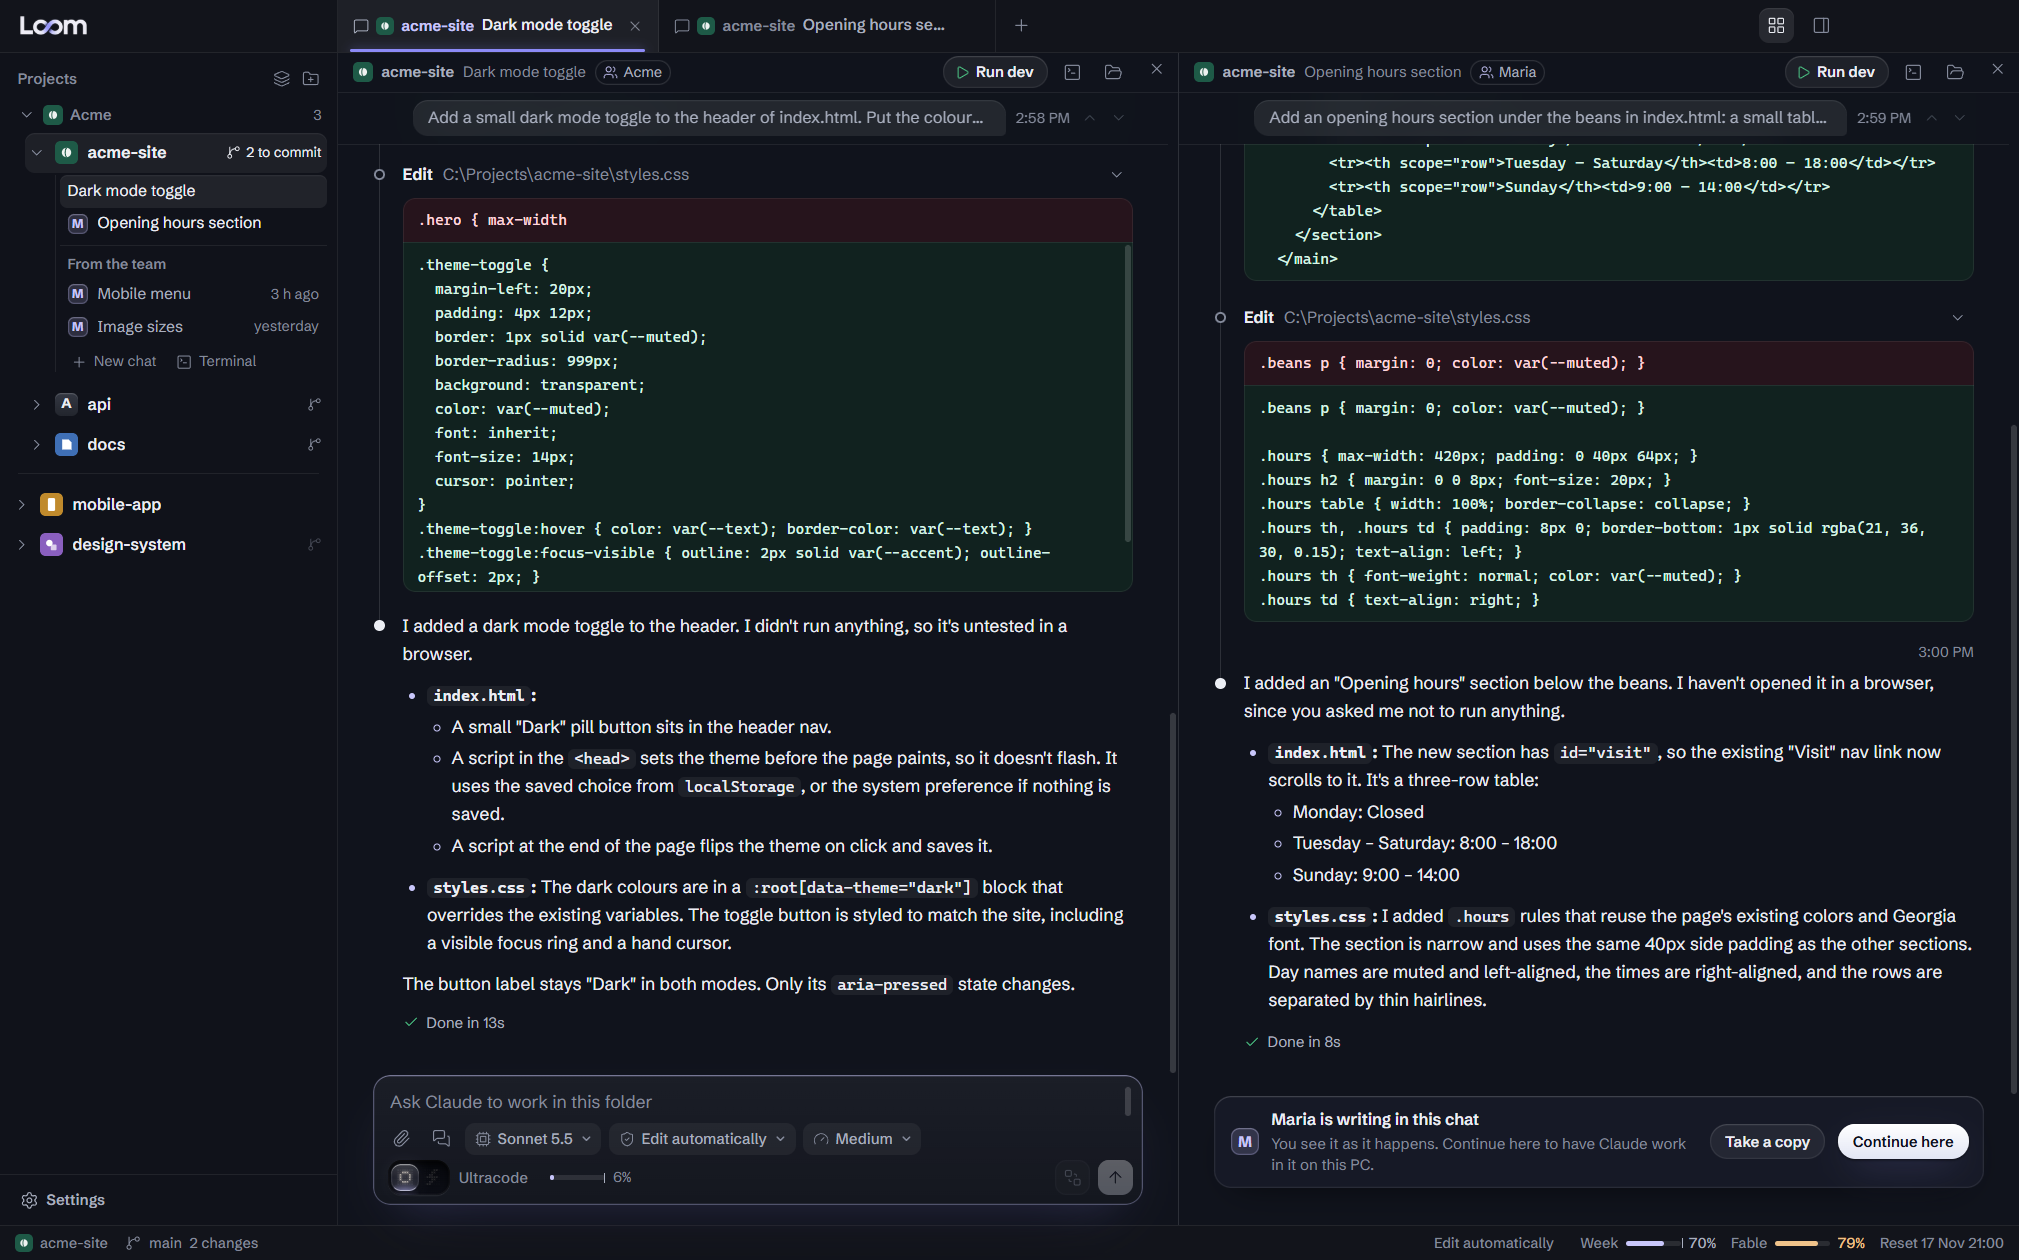
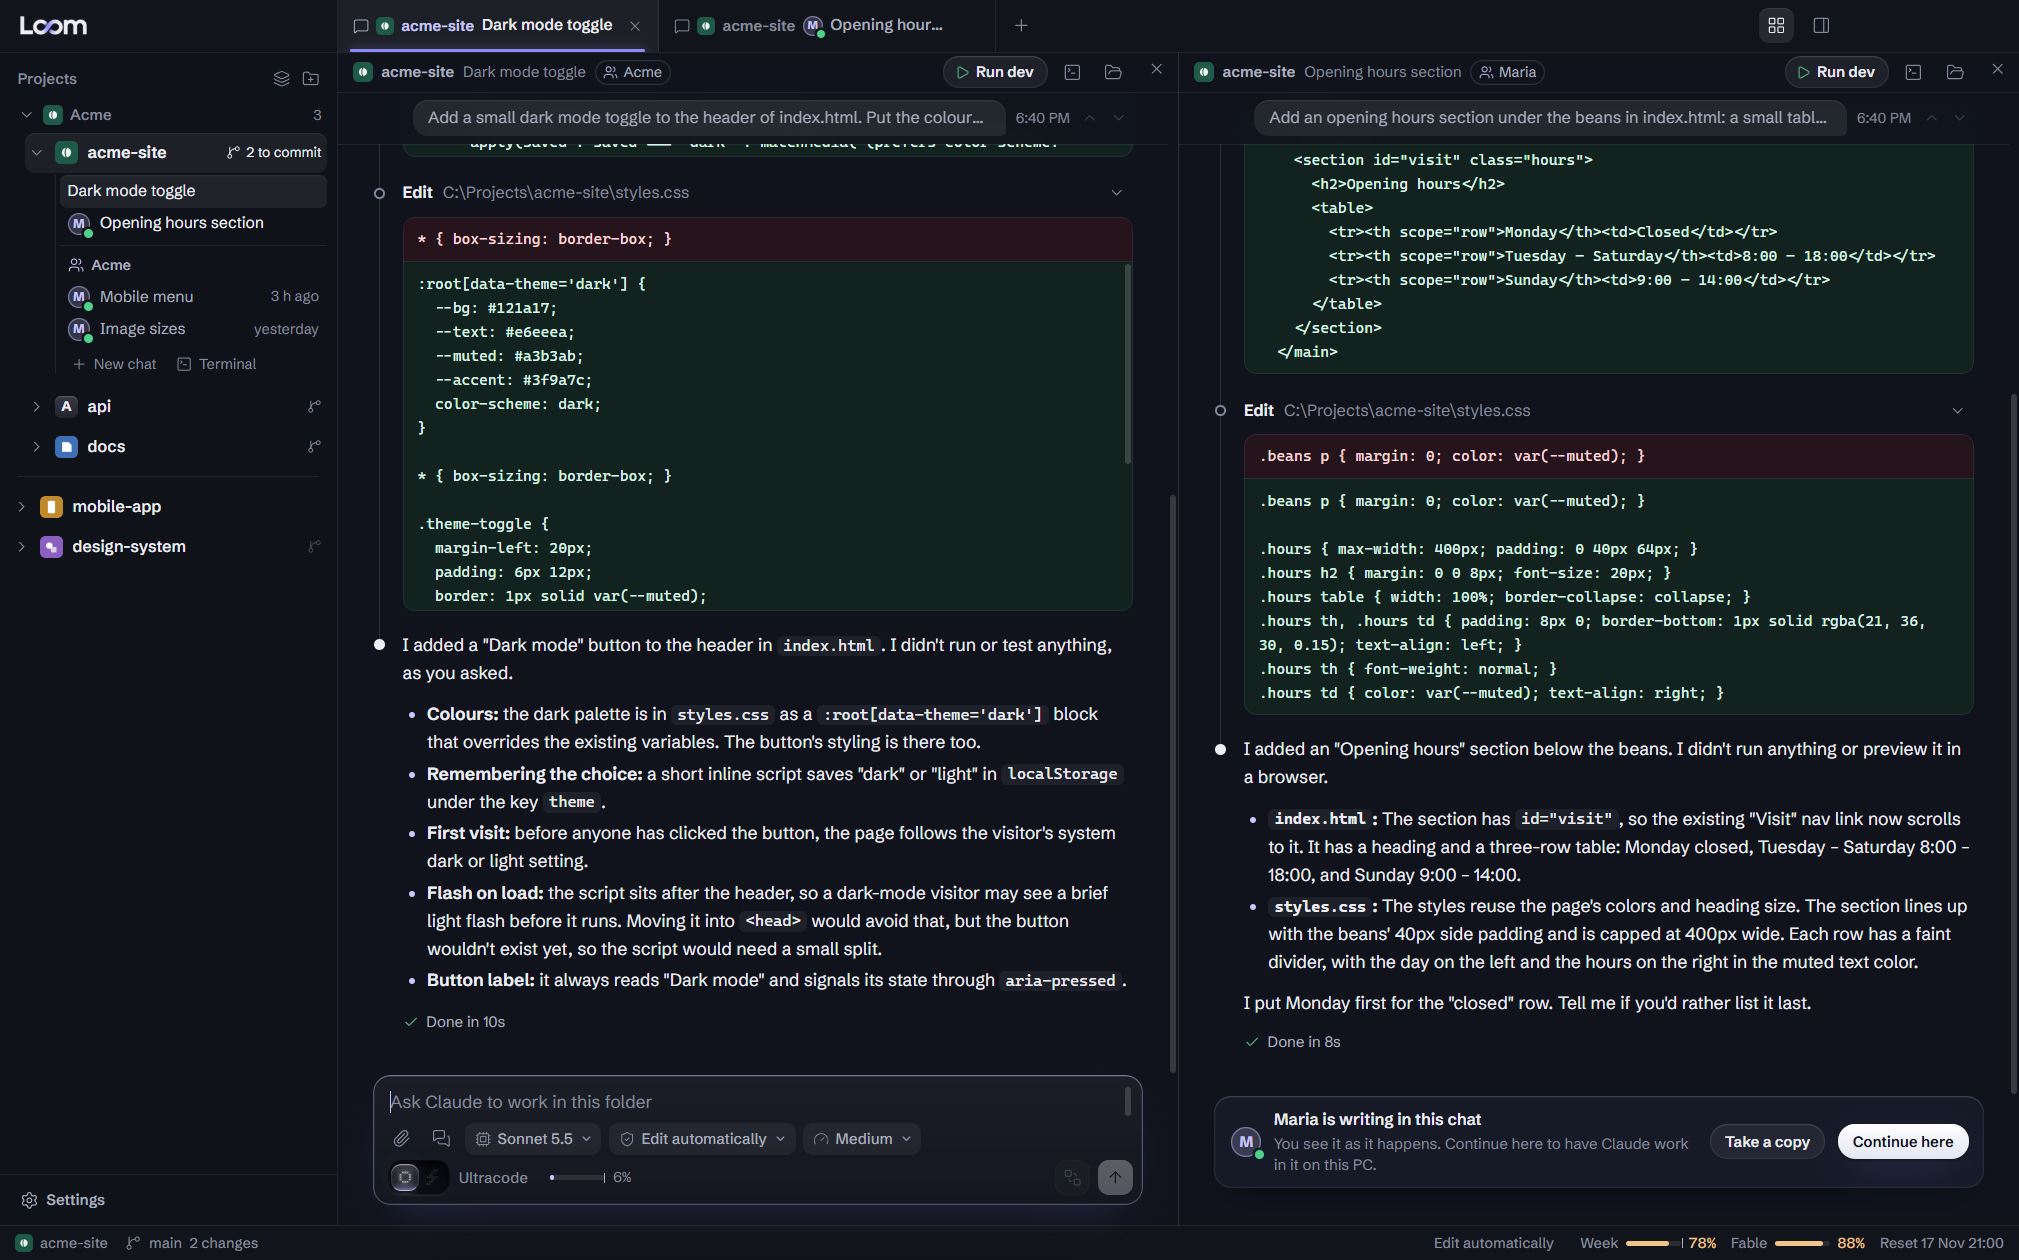
docs(loom): describe the clearer team flow and git on a new pc
The README says that each side shares a project, what a follower sees
while a teammate types, that messages carry their author once a chat has
changed hands, and that Settings, Accounts installs Git where it is
missing. DESIGN.md records the round member mark, the shared-project
section of the sidebar, the author over a message, the typing preview and
the new shape of Settings, Team. The team screenshot is taken again.

diff --git a/README.md b/README.md
@@ -103,12 +103,14 @@ The phone and the PC talk through a small relay, and everything between them is 
 ### A team on the same project
 
 <p align="center">
-  <img src="docs/screenshots/team.png" alt="Two chats side by side: one of your own with its message box, and a teammate's chat that Maria is writing in, with Take a copy and Continue here in place of the message box. The sidebar lists her other chats under From the team">
+  <img src="docs/screenshots/team.png" alt="Two chats side by side: one of your own with its message box, and a teammate's chat that Maria is writing in, with Take a copy and Continue here in place of the message box. The sidebar lists her other chats under the team's name, each with her round mark">
 </p>
 
-People who work on the same repository, each with it on their own PC, can share their chats. Start a team in Settings, Team, and invite someone with a link: they paste it in their Loom, you both see the same four digits, and you let them in. Then tick the projects the team shares. A project is told apart by its git remote, so each person's folder can be anywhere.
+People who work on the same repository, each with it on their own PC, can share their chats. Start a team in Settings, Team, and invite someone with a link: they paste it in their Loom, you both see the same four digits, and you let them in.
 
-Your teammates' chats show in the sidebar under the project, with who writes in each. Open one and its history is copied to your PC and kept up to date, so you read along while their Claude works. One person writes in a chat at a time. **Continue here** asks your teammate to pass it on: from then on Claude works on your PC, in your copy of the project and on your Claude account, with the whole conversation behind it, and your teammate follows instead. **Take a copy** starts a chat of your own from the same history and takes nothing from anyone. To keep a chat to yourself, right-click it and pick Keep private from the team.
+Then each of you shares the project, on your own PC: Share a project in Settings, Team, or right-click the project in the sidebar. Sharing is done on each side, so you see each other's chats once both have the repository in Loom and both have shared it. Until then Loom says who has not yet, and a project a teammate shares is offered to you with one click. A project is told apart by its git remote, so each person's folder can be anywhere; one with no git remote cannot be shared.
+
+Your teammates' chats show in the sidebar under the project, below the team's name, each with a round mark for who writes in it and a green dot while they are online. Open one and its history is copied to your PC and kept up to date, so you read along while their Claude works, and you see their next message taking shape as they type it. One person writes in a chat at a time. **Continue here** asks your teammate to pass it on: from then on Claude works on your PC, in your copy of the project and on your Claude account, with the whole conversation behind it, and your teammate follows instead. Once a chat has changed hands, every message says whose it is, and Claude is told too. **Take a copy** starts a chat of your own from the same history and takes nothing from anyone. To keep a chat to yourself, right-click it and pick Keep private from the team.
 
 A chat can also come along as background. The button next to Attach images in the message box lists the project's other chats, your teammates' and your own. Pick one and Claude writes notes on it (what was asked, found, changed, decided and left unfinished), which go to Claude with your next message. The other chat is left as it is.
 
@@ -126,7 +128,7 @@ You also need:
 
 - **A Claude account that can use Claude Code:** a Claude plan or an Anthropic Console account. Loom has no account of its own and needs no API key.
 - **Claude Code**, Anthropic's command-line tool. If it isn't on your PC, Loom's first-run steps install it for you with Anthropic's own installer.
-- **[Git](https://git-scm.com)**, for the git features.
+- **[Git](https://git-scm.com)**, for the git features and for signing in to GitHub. If it isn't on your PC, Settings, Accounts offers to install it and then to sign in.
 
 <p align="center">
   <img src="docs/screenshots/start.png" alt="The Get started page: sign in to Claude, then add projects picked from the folders already used with Claude Code">
@@ -144,7 +146,7 @@ The first launch walks through signing in to Claude, adding projects and choosin
 - **Chat history stays on your PC,** in `~/.claude/projects`, where Claude Code keeps it. Loom's own state (projects, groups, open tabs, settings) is in `%APPDATA%\Loom\loom-state.json`.
 - **GitHub is contacted to check for updates,** and for nothing else.
 - **A linked phone goes through a relay that cannot read it.** What passes between the phone and the PC is sealed with a key only the two hold. The phone's key lives in its browser, where the page can use it but not read it, and on the PC it is encrypted for your Windows account. A linked phone can do what you can in a chat, including approving what Claude asks to run, so remove a lost phone in Settings, Phone access.
-- **A team gets the chats of the projects you share with it, and nothing else.** Their histories go to your teammates' PCs sealed with the team's key, which the relay never has; on each PC the key is encrypted for the Windows account. Nothing is shared until you start or join a team and tick a project, and a chat marked private stays on your PC. A member you remove can no longer connect; what was already copied to their PC stays there. Files are never sent.
+- **A team gets the chats of the projects you share with it, and nothing else.** Their histories go to your teammates' PCs sealed with the team's key, which the relay never has; on each PC the key is encrypted for the Windows account. Nothing is shared until you start or join a team and share a project, and a chat marked private stays on your PC. A teammate who has one of your chats open also sees what you type in its message box before you send it; Settings, Team switches that off. A member you remove can no longer connect; what was already copied to their PC stays there. Files are never sent.
 - **Previews are sandboxed.** A site in a preview pane runs with no access to Loom.
 - **Settings, Accounts shows who this PC is signed in as:** your Claude account, and GitHub, Cloudflare and Vercel as their own tools have them. That is what a push or a deploy from a terminal or from Claude goes out as. Loom reads the names and keeps nothing.
 

diff --git a/DESIGN.md b/DESIGN.md
@@ -46,7 +46,10 @@ Projects keep a colour, but only as the deep tint of their initial tile (`--t-*`
 - File icons (Files panel, Ctrl+P) are the one place with many hues: each kind of file keeps the colour it is known by, muted to about the same lightness, drawn in one hand in `FileIcon.tsx`. Tool folders (`node_modules`, `dist`, `.git`) are dimmed; `.claude` and `CLAUDE.md` take the lavender.
 - Once your message has scrolled away, a slim band under the chat header keeps it pinned (one line, then its time and the arrows to the message before and after, which stay at the column's right edge whatever the message's length); the conversation passes beneath it with a blur.
 - What you can do to a running task is said in words, in small pills: Run in background in glass, Stop in the red of the chat's Stop with its filled square. Send to background sits beside the lit Send as a glass key.
-- A teammate is a small glass tile with their initial, lavender while they are online and grey when away. It marks their chats in the sidebar (listed under the project's own, below a faint line, as From the team) and the chat header says who writes in a chat. A history being copied fills its row from the left in lavender.
+- A teammate is a round lavender mark with their initial, never a square: squares are projects. A green dot on its rim says they are online; away, the mark is an empty ring. It marks their chats in the sidebar, on the tab and beside their messages, and the chat header says who writes in a chat. A history being copied fills its row from the left in lavender.
+- A shared project says so in the sidebar on both sides, under its own chats and a faint line: the team's name with a small people glyph, then the teammates' chats, or a line of grey text on where things stand (only you share it so far; a teammate shares it and you do not yet, with the way to share it too).
+- In a chat that has changed hands every message carries, over its bubble, the mark and name of who wrote it, or You.
+- What the writer of a followed chat is typing shows over the follow bar in the outline of a message box, dashed since nothing in it is sent yet.
 - A chat someone else writes in has no message box: a raised bar in its place names the writer and offers the two ways to carry on, Continue here (lit) and Take a copy (glass).
 - Another chat brought into a message waits in the message box as a chip: grey with a turning ring while Claude writes its notes, lavender when ready, amber if the notes could not be written. Under the sent message a small grey line names the chat that came along, as Send to background does.
 - Running servers are green LEDs.
@@ -64,6 +67,8 @@ All drawn in theme: dropdowns with a drawn chevron and a glass list, checkboxes 
 Tooltips are Loom's too, never the system's pale box: dark glass at 12px, under the control and centred on it (over it at the bottom of the window), fading in after half a second of rest, there at once when moving from one control to the next, and gone at once. Every `title` in the app goes through them (`lib/tooltips.ts`).
 
 Settings lists its sections down the left as tabs, one section showing at a time; the chosen one carries the lit wash of the current project in the sidebar, its icon in lavender. Room for the scrollbar is always kept, so nothing shifts between a long section and a short one. On a narrow window the sections become one row that scrolls.
+
+Settings, Team keeps the projects a team shares as a short list, each saying who else shares it (amber when nobody does yet, the one state that needs something done on another PC). Every other project waits behind Share a project: a field to find it by, a list under the sidebar's groups, and the projects with no git remote folded away at its end.
 
 A menu can carry a small grey line that names the items under it (From the team, On this PC), and a menu opened from the bottom of the window grows upwards from its button.
 

diff --git a/remote/README.md b/remote/README.md
@@ -30,7 +30,7 @@ The Worker has a second kind of room, for a team: the Looms of people who work o
 - **The room** is `/v1/team/<id>`, a Durable Object of class `Team`. Each member connects with a member id and signs in with a key of their own; the room keeps a hash of each member's key and nothing else. The first to sign in founds it. A member lets a newcomer in or takes a member out, and one who stops pinging for 75 seconds is taken to have left. Browsers are refused: only Loom connects here.
 - **Joining.** An invitation is a link, `remote.loom.baby/team#t=<team>&s=<secret>`, for one person, good for 15 minutes. Opened in a browser it lands on a page that says to paste it in Loom, under Settings, Team. The newcomer's Loom and a member's Loom swap public keys sealed with a key made from the secret, both show four digits worked out from the result, and when the member allows it the team's key and its list of members are sent, sealed for the newcomer alone.
 - **Every message** between members is sealed with AES-256-GCM under the team's key, bound to the team and to its sender. It carries a session id, a count that only goes up and the time, so one recorded and sent again is dropped. Each PC keeps the team's key in `%APPDATA%\Loom\teams.json`, encrypted for the Windows account.
-- **What members tell each other:** which chats each one holds in the projects the team shares (a project goes by the address of its git remote), a chat's history in pieces when asked for and then as it grows, what Claude is doing in a chat right now for those who follow it, and the passing of a chat from the one who writes in it to the next. A history is rewritten on arrival so that the sender's project folder reads as the receiver's.
+- **What members tell each other:** which projects each one shares with the team (a project goes by the address of its git remote; sharing is each member's own choice, and two members see each other's chats in a project both share), which chats each one holds in them, a chat's history in pieces when asked for and then as it grows, what Claude is doing in a chat right now and what its writer is typing for those who follow it, and the passing of a chat from the one who writes in it to the next. A history is rewritten on arrival so that the sender's project folder reads as the receiver's.
 - **The relay knows** the team's id, its members' ids and when each is connected, and how big and how often messages are. It cannot read them and keeps none: a chat goes straight from the PC that has it to the PC that asked.
 
 Both sides have to speak the same version (`TEAM_VERSION` in `src/shared/team.ts`).
